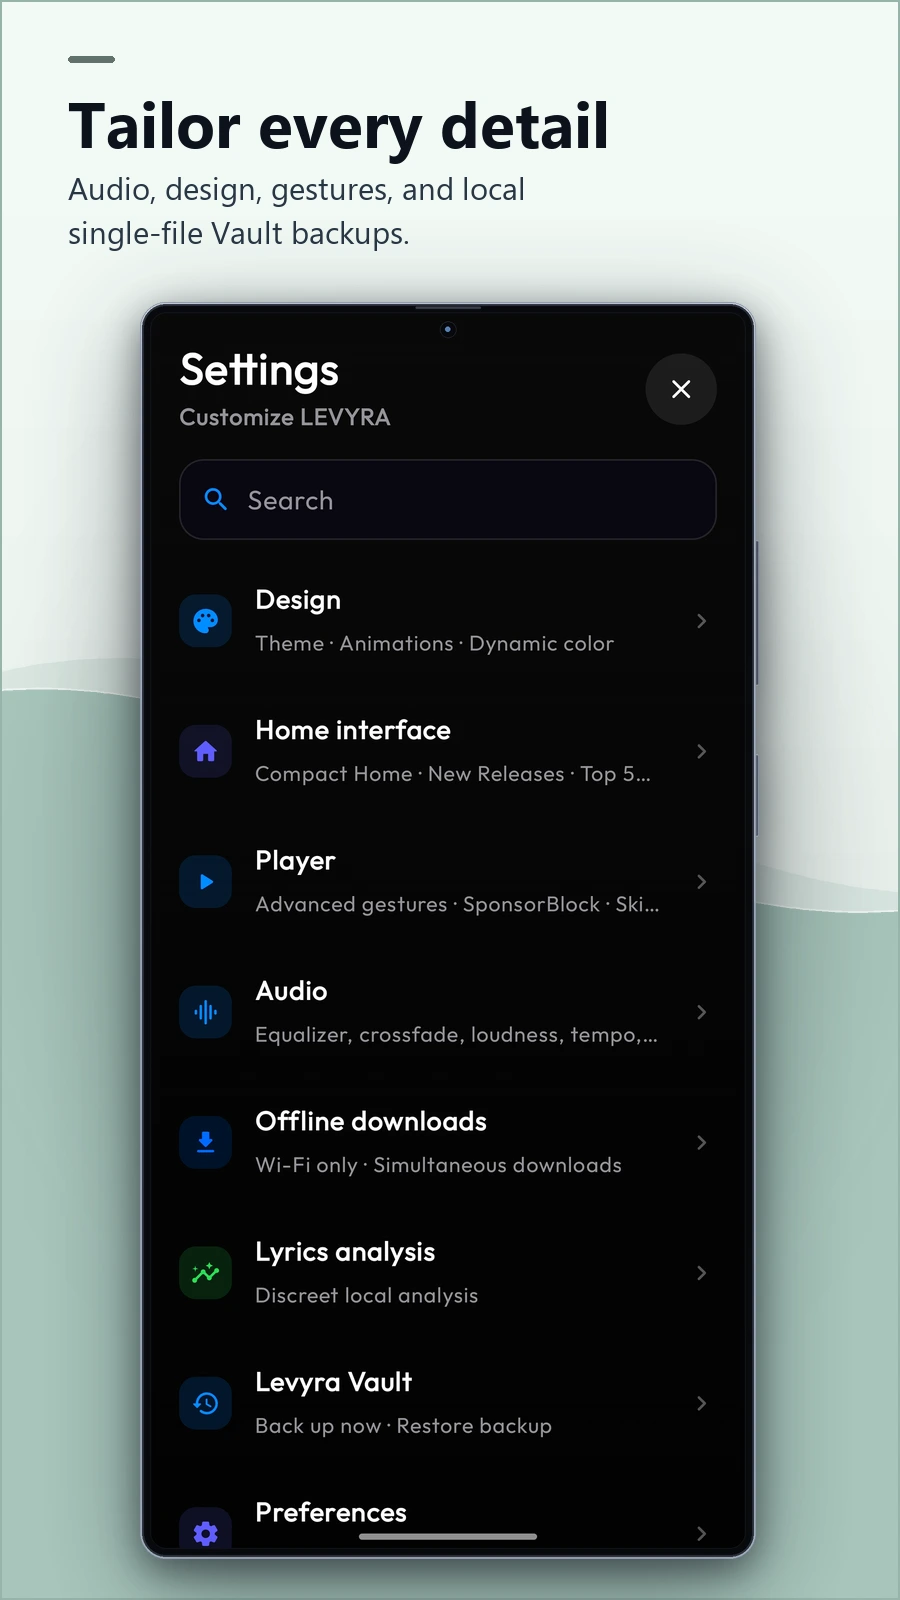
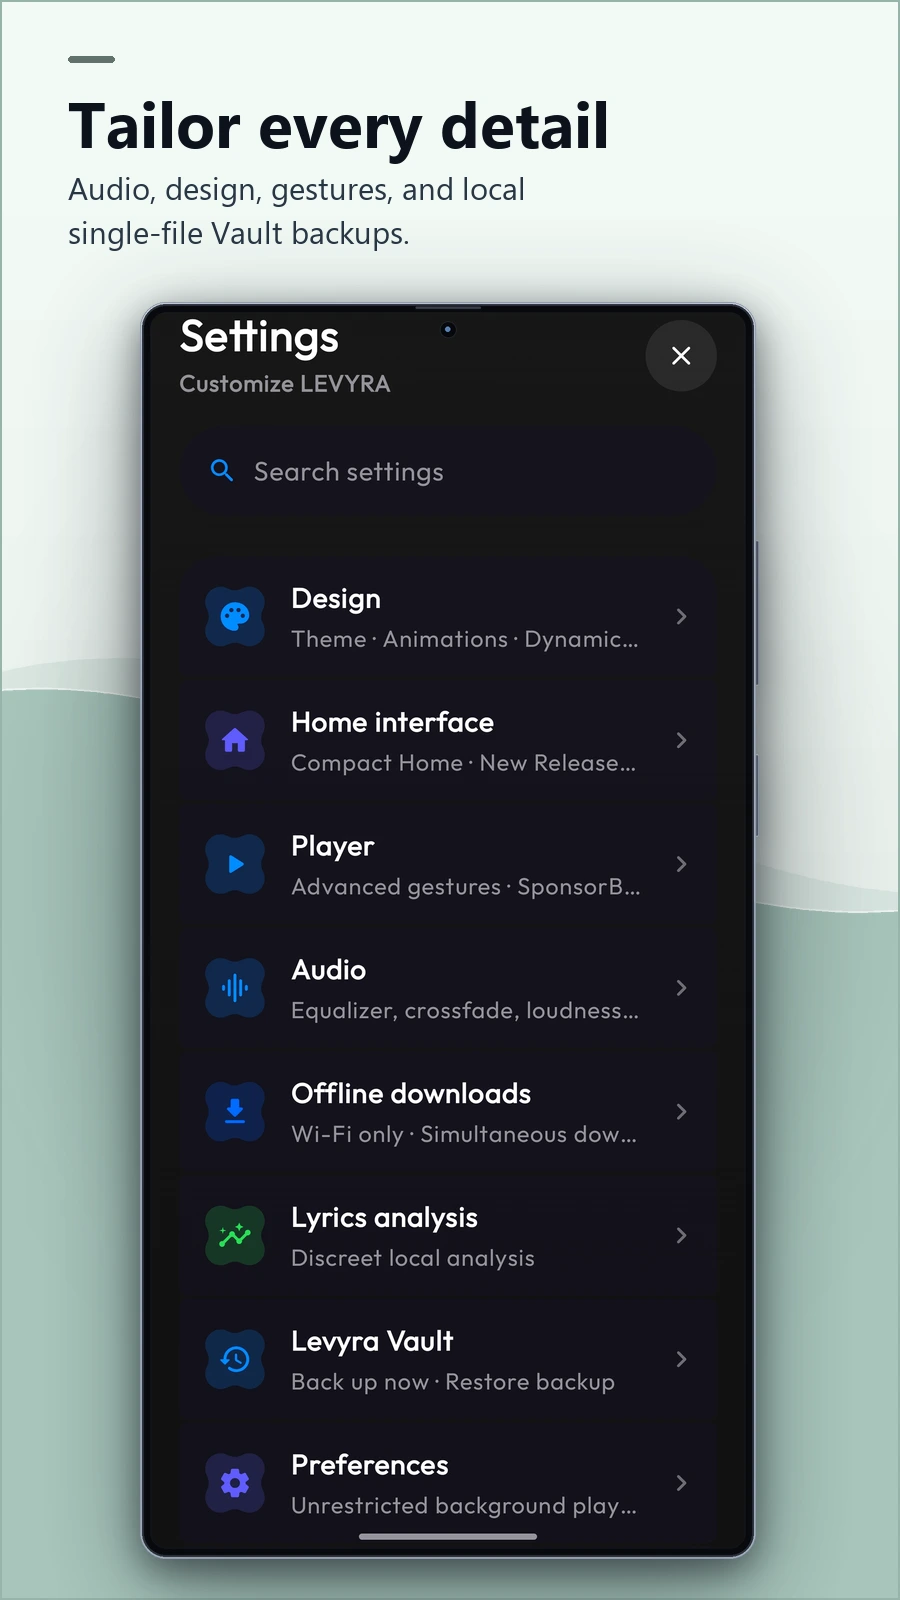
docs(readme): update Settings & Vault showcase card with latest UI

diff --git a/scripts/generate_showcase_assets.py b/scripts/generate_showcase_assets.py
@@ -671,7 +671,7 @@ def generate_feature_cards():
         (10, "13_your_orbit.webp", "Screenshot_20261010_132103_LEVYRA.jpg", "In your orbit", "The songs and artists that always return\nto your rotation.", C_TWILIGHT),
         (11, "14_listening_pulse.webp", "Screenshot_20261010_132050_LEVYRA.jpg", "Keep it personal", "Private listening stats and charts,\ncomputed strictly on your device.", C_CELESTE),
         (12, "15_artist_playlists.webp", "Screenshot_20260929_201454_LEVYRA.jpg", "Artist playlists", "Curated sets, tours, and the\nessential catalog of every artist.", C_CELESTE),
-        (13, "16_settings_vault.webp", "Screenshot_20260929_194944_LEVYRA.jpg", "Tailor every detail", "Audio, design, gestures, and local\nsingle-file Vault backups.", C_SAGE),
+        (13, "16_settings_vault.webp", "Screenshot_20261010_140700_LEVYRA.jpg", "Tailor every detail", "Audio, design, gestures, and local\nsingle-file Vault backups.", C_SAGE),
         (14, "17_new_releases.webp", "Screenshot_20260927_132248_LEVYRA.jpg", "Fresh off the stage", "New singles and albums updated\nevery week directly from artists.", C_CASHMERE),
         (15, "18_fresh_currents.webp", "Screenshot_20260929_212908_LEVYRA.jpg", "Discovery stream", "Artist mixes, deep catalog filters,\nand instant radio stations.", C_SEAFOAM),
         (15, "18_artist_profile.webp", "Screenshot_20260926_194603_LEVYRA.jpg", "Meet the artist", "Full discography, singles, biographies,\nand top tracks in one tap.", C_TWILIGHT),
